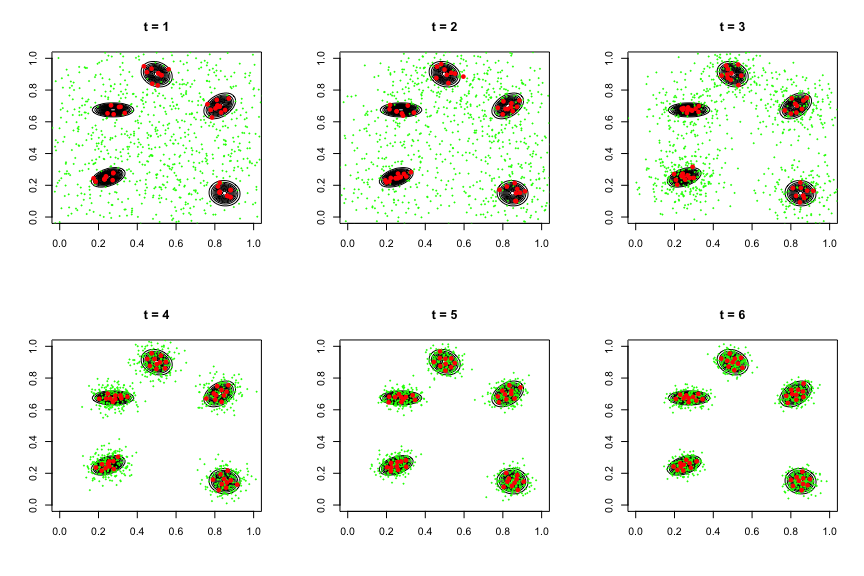
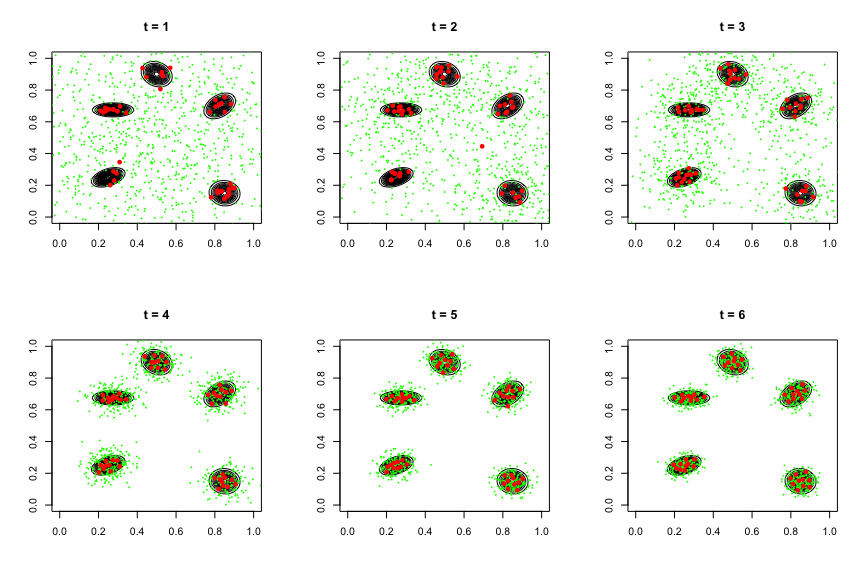
update README.md

diff --git a/README.md b/README.md
@@ -5,7 +5,7 @@ Chaofan (Bill) Huang
 Let us first load the required libraries and scripts.
 
 ``` r
-set.seed(080220)
+set.seed(950922)
 source("scripts/lib.R")
 library(mvtnorm)
 library(randtoolbox)
@@ -89,12 +89,12 @@ points(sp.samp, pch = 16, cex = 1, col = "red")
 
 ![](README_files/figure-gfm/resample-1.png)<!-- -->
 
-## PMC
+## PQMC vs. PMC
 
-Let us now run PMC on the mixture of five normals with N = 50, J = 20,
-and T = 6. The initial centers are the 50 Sobol points over the unit
-square. Adaptation for covariance is applied. Here follows the parameter
-setting for the PMC.
+Let us now run PMC and PQMC on the mixture of five normals with N = 50,
+J = 20, and T = 6. The initial centers are the 50 Sobol points over the
+unit square. Adaptation for covariance is applied. Here follows the
+parameter setting.
 
 ``` r
 expectation <- 0.5 + c(1.6,1.4) / 40 # E[X]
@@ -108,12 +108,12 @@ sigma <- 0.2 # initial covariance
 adaptation <- T # adaptation for covariance
 ```
 
-### Multinomial
+### PMC (Multinomial)
 
 ``` r
 layout(matrix(c(1:6), nrow = 2, byrow = T))
 pmc.mn <- pmc(ini, logmixture, J, steps, sigma, resample = "Multinomial",
-              sigma.adapt = adaptation, qmc = T, visualization = T)
+              sigma.adapt = adaptation, qmc = F, visualization = T)
 ```
 
 ![](README_files/figure-gfm/pmc-mn-1.png)<!-- -->
@@ -123,35 +123,35 @@ pmc.mn <- pmc(ini, logmixture, J, steps, sigma, resample = "Multinomial",
 log(mean((pmc.mn$m.std - expectation)^2))
 ```
 
-    ## [1] -10.09398
+    ## [1] -10.01061
 
 ``` r
 # log MSE of E[X] by weighted PMC estimator
 log(mean((pmc.mn$m.wts - expectation)^2))
 ```
 
-    ## [1] -15.17702
+    ## [1] -11.76628
 
 ``` r
 # log MSE of Z by standard PMC estimator
 log((pmc.mn$z.std - Z)^2)
 ```
 
-    ## [1] -7.483487
+    ## [1] -7.955113
 
 ``` r
 # log MSE of Z by weighted PMC estimator
 log((pmc.mn$z.wts - Z)^2)
 ```
 
-    ## [1] -9.655509
+    ## [1] -11.97185
 
-### Systematic
+### PMC (Systematic)
 
 ``` r
 layout(matrix(c(1:6), nrow = 2, byrow = T))
 pmc.ss <- pmc(ini, logmixture, J, steps, sigma, resample = "Systematic",
-              sigma.adapt = adaptation, qmc = T, visualization = T)
+              sigma.adapt = adaptation, qmc = F, visualization = T)
 ```
 
 ![](README_files/figure-gfm/pmc-ss-1.png)<!-- -->
@@ -161,30 +161,30 @@ pmc.ss <- pmc(ini, logmixture, J, steps, sigma, resample = "Systematic",
 log(mean((pmc.ss$m.std - expectation)^2))
 ```
 
-    ## [1] -11.23606
+    ## [1] -10.38251
 
 ``` r
 # log MSE of E[X] by weighted PMC estimator
 log(mean((pmc.ss$m.wts - expectation)^2))
 ```
 
-    ## [1] -13.19546
+    ## [1] -11.5296
 
 ``` r
 # log MSE of Z by standard PMC estimator
 log((pmc.ss$z.std - Z)^2)
 ```
 
-    ## [1] -6.733172
+    ## [1] -7.803806
 
 ``` r
 # log MSE of Z by weighted PMC estimator
 log((pmc.ss$z.wts - Z)^2)
 ```
 
-    ## [1] -9.842951
+    ## [1] -9.693227
 
-### Support Points
+### PQMC (Support Points)
 
 ``` r
 layout(matrix(c(1:6), nrow = 2, byrow = T))
@@ -199,25 +199,25 @@ pmc.sp <- pmc(ini, logmixture, J, steps, sigma, resample = "SP",
 log(mean((pmc.sp$m.std - expectation)^2))
 ```
 
-    ## [1] -11.47272
+    ## [1] -13.39367
 
 ``` r
 # log MSE of E[X] by weighted PMC estimator
 log(mean((pmc.sp$m.wts - expectation)^2))
 ```
 
-    ## [1] -16.91554
+    ## [1] -12.72614
 
 ``` r
 # log MSE of Z by standard PMC estimator
 log((pmc.sp$z.std - Z)^2)
 ```
 
-    ## [1] -6.985696
+    ## [1] -8.226449
 
 ``` r
 # log MSE of Z by weighted PMC estimator
 log((pmc.sp$z.wts - Z)^2)
 ```
 
-    ## [1] -9.363427
+    ## [1] -9.391523
